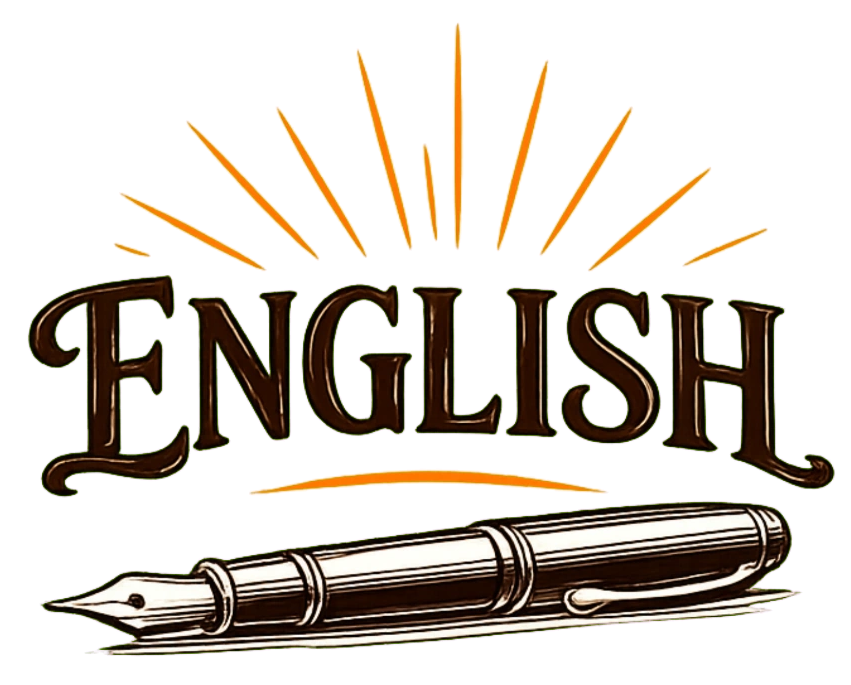
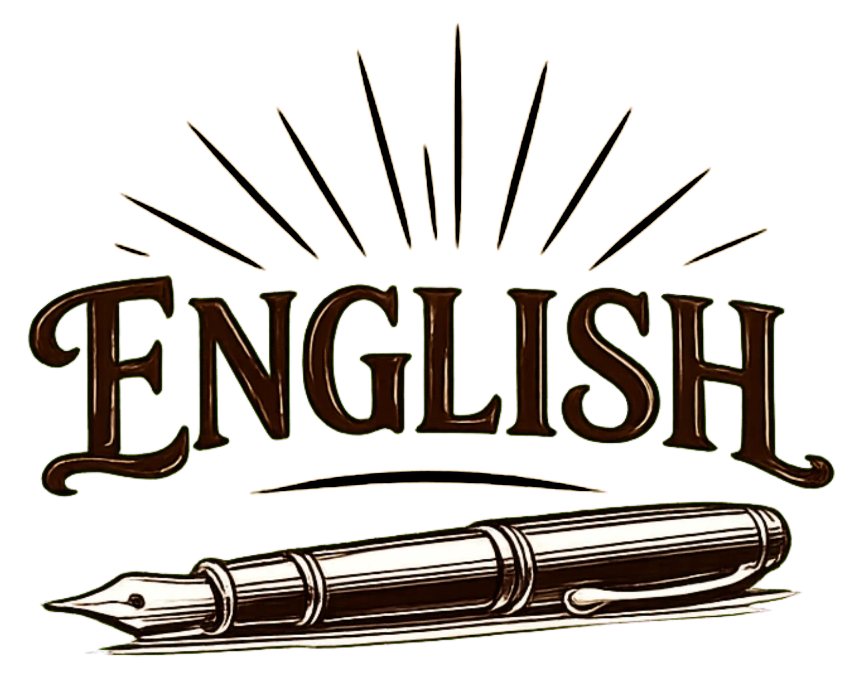
SR CHANGED THUMBNAIL COLOUR

diff --git a/client/career-guidance.html b/client/career-guidance.html
@@ -10,7 +10,9 @@
 
     <title>Karthificial | Career Guidance</title>
 
-    <link rel="stylesheet" href="variables.css">    <link rel="stylesheet" href="structure.css">    <link rel="stylesheet" href="style.css">
+    <link rel="stylesheet" href="variables.css">
+    <link rel="stylesheet" href="structure.css">
+    <link rel="stylesheet" href="style.css">
     <link rel="preconnect" href="https://fonts.googleapis.com">
     <link rel="preconnect" href="https://fonts.gstatic.com" crossorigin>
     <link rel="preconnect" href="https://fonts.googleapis.com">
@@ -964,8 +966,8 @@
                 </a>
 
                 <a href="career-mistakes.html" class="career-blog-card" data-category="mistakes">
-                    <img src="assets/cg_thumb/common_career_mistakes.webp" alt="Career Mistakes Students Should Avoid" loading="lazy"
-                        fetchpriority="low">
+                    <img src="assets/cg_thumb/common_career_mistakes.webp" alt="Career Mistakes Students Should Avoid"
+                        loading="lazy" fetchpriority="low">
 
                     <div class="career-blog-content">
                         <span class="career-blog-tag">Avoid Mistakes</span>
@@ -1036,7 +1038,7 @@
 
     <script src="script.js" defer></script>
     <script src="config.js" defer></script>
-    <script src="clerk-auth.js"defer></script>
+    <script src="clerk-auth.js" defer></script>
     <script>
         const searchInput = document.getElementById("careerSearch");
         const filterButtons = document.querySelectorAll(".filter-btn");
